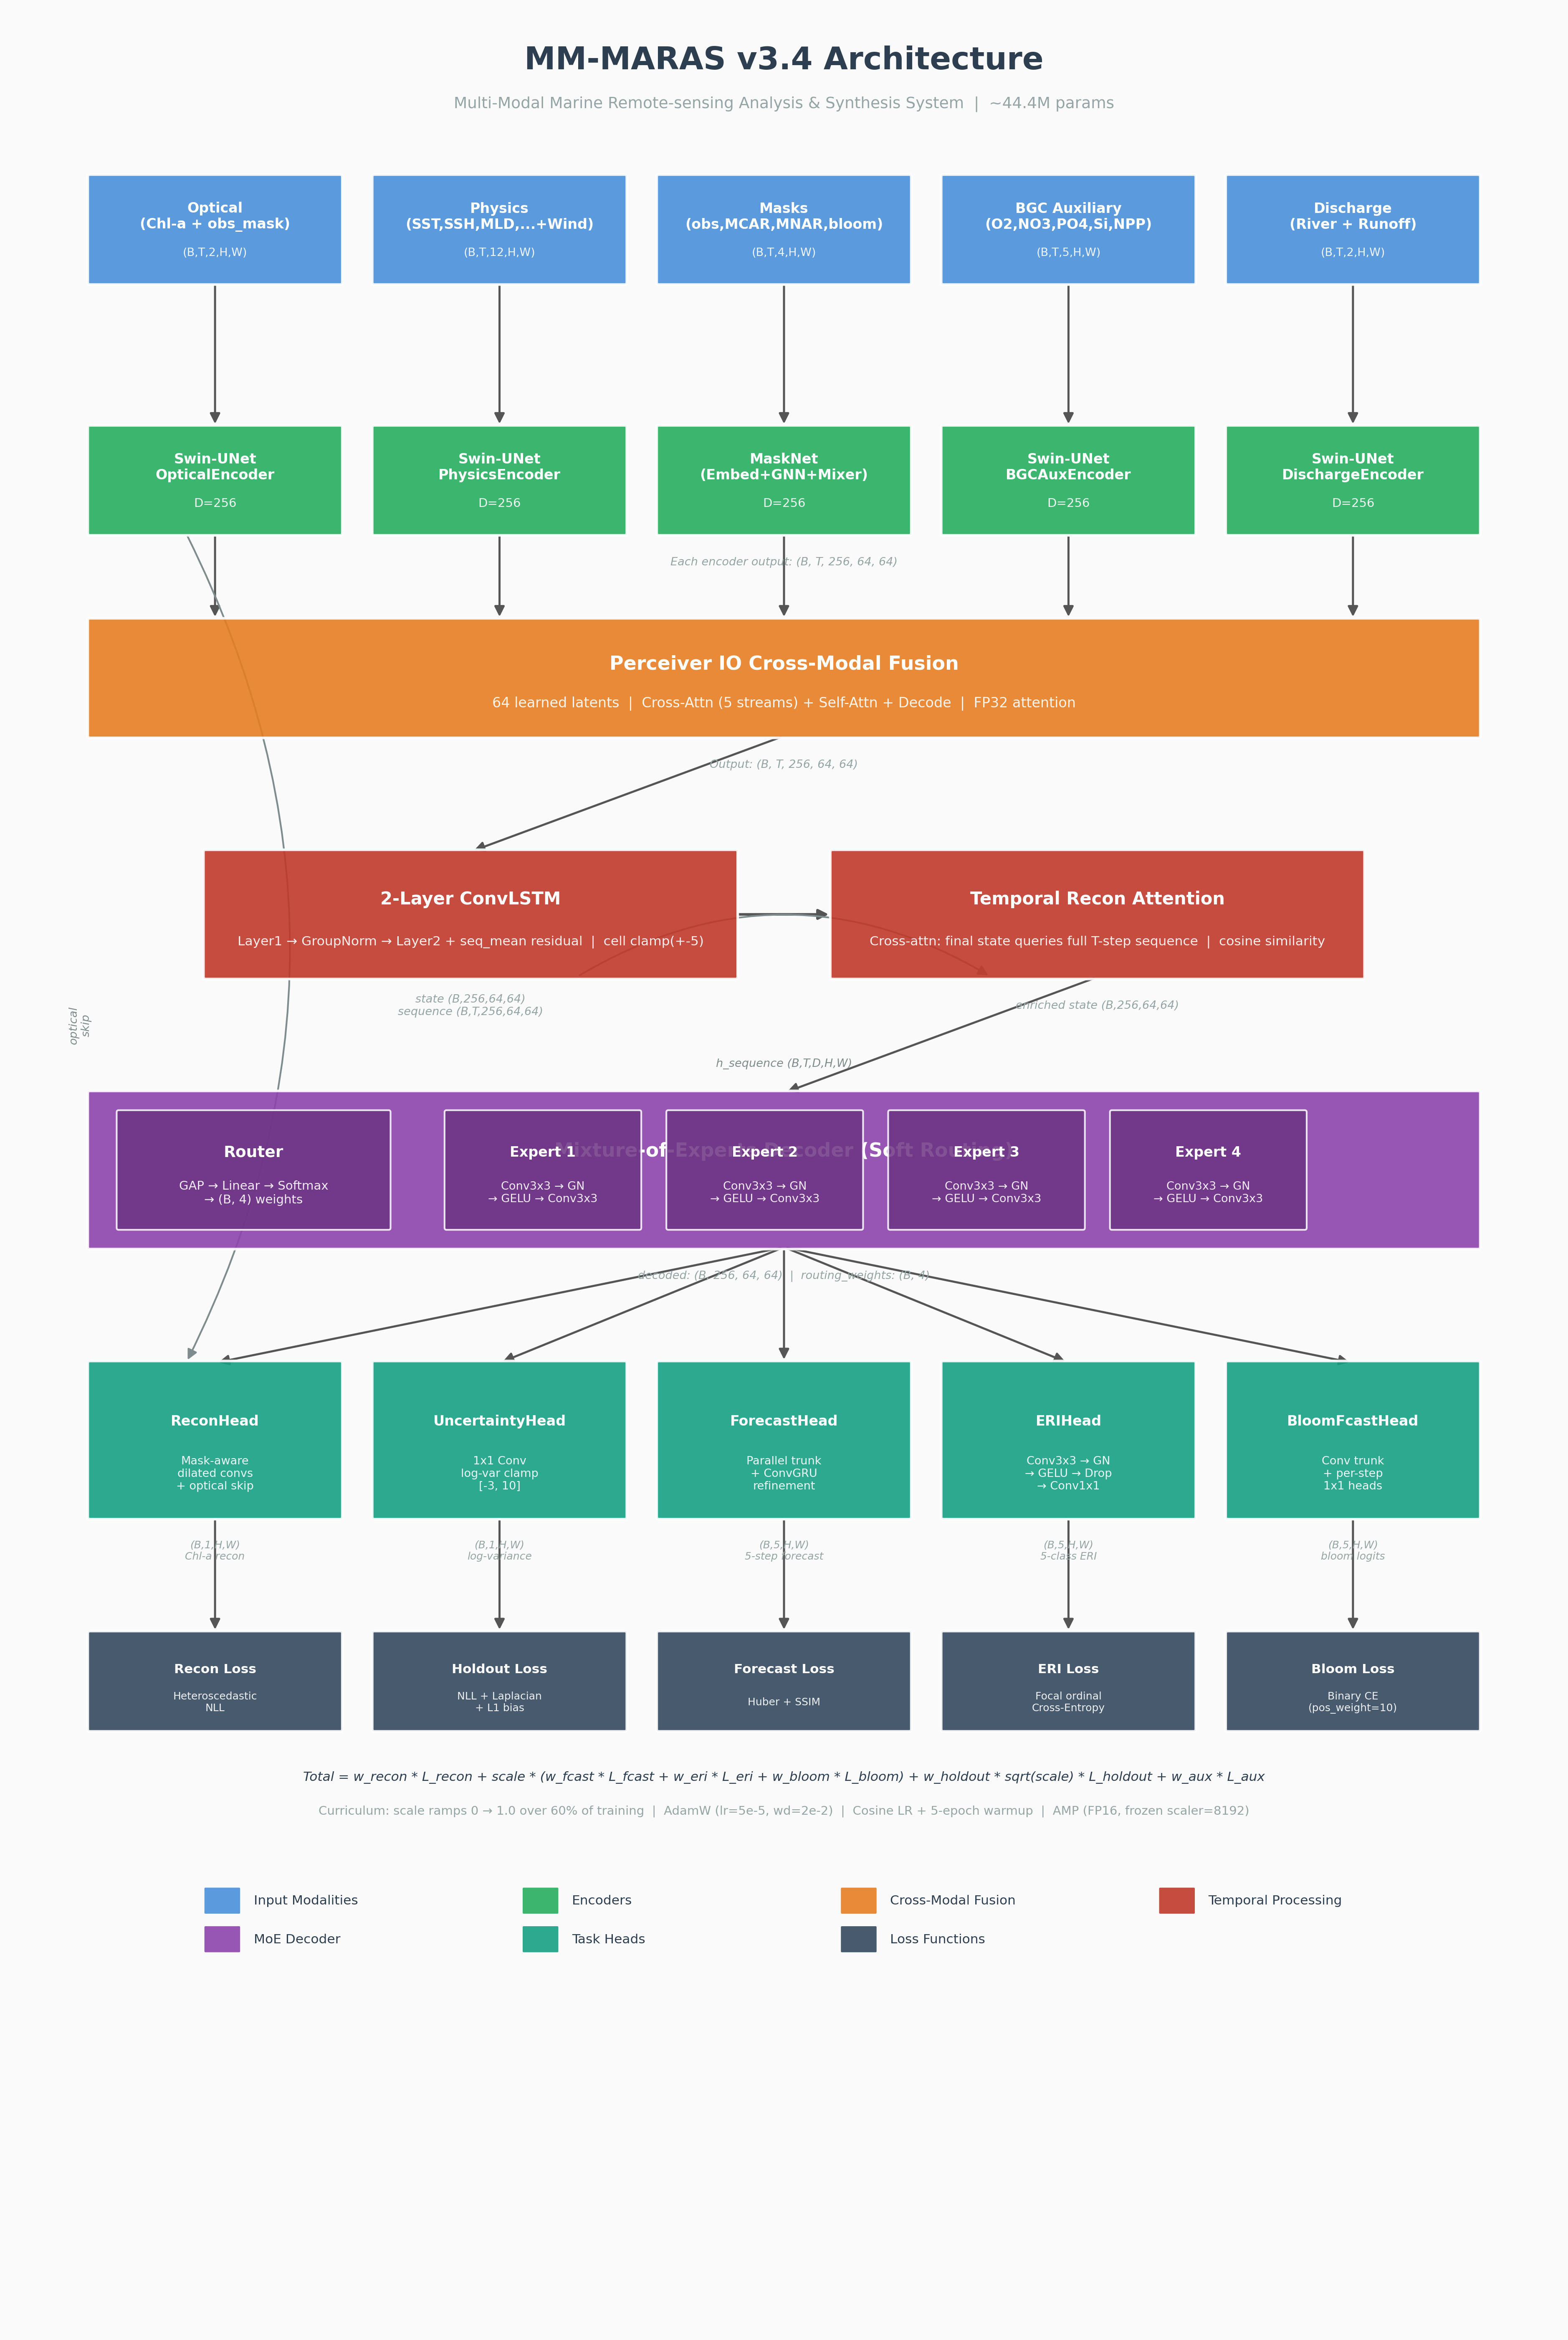
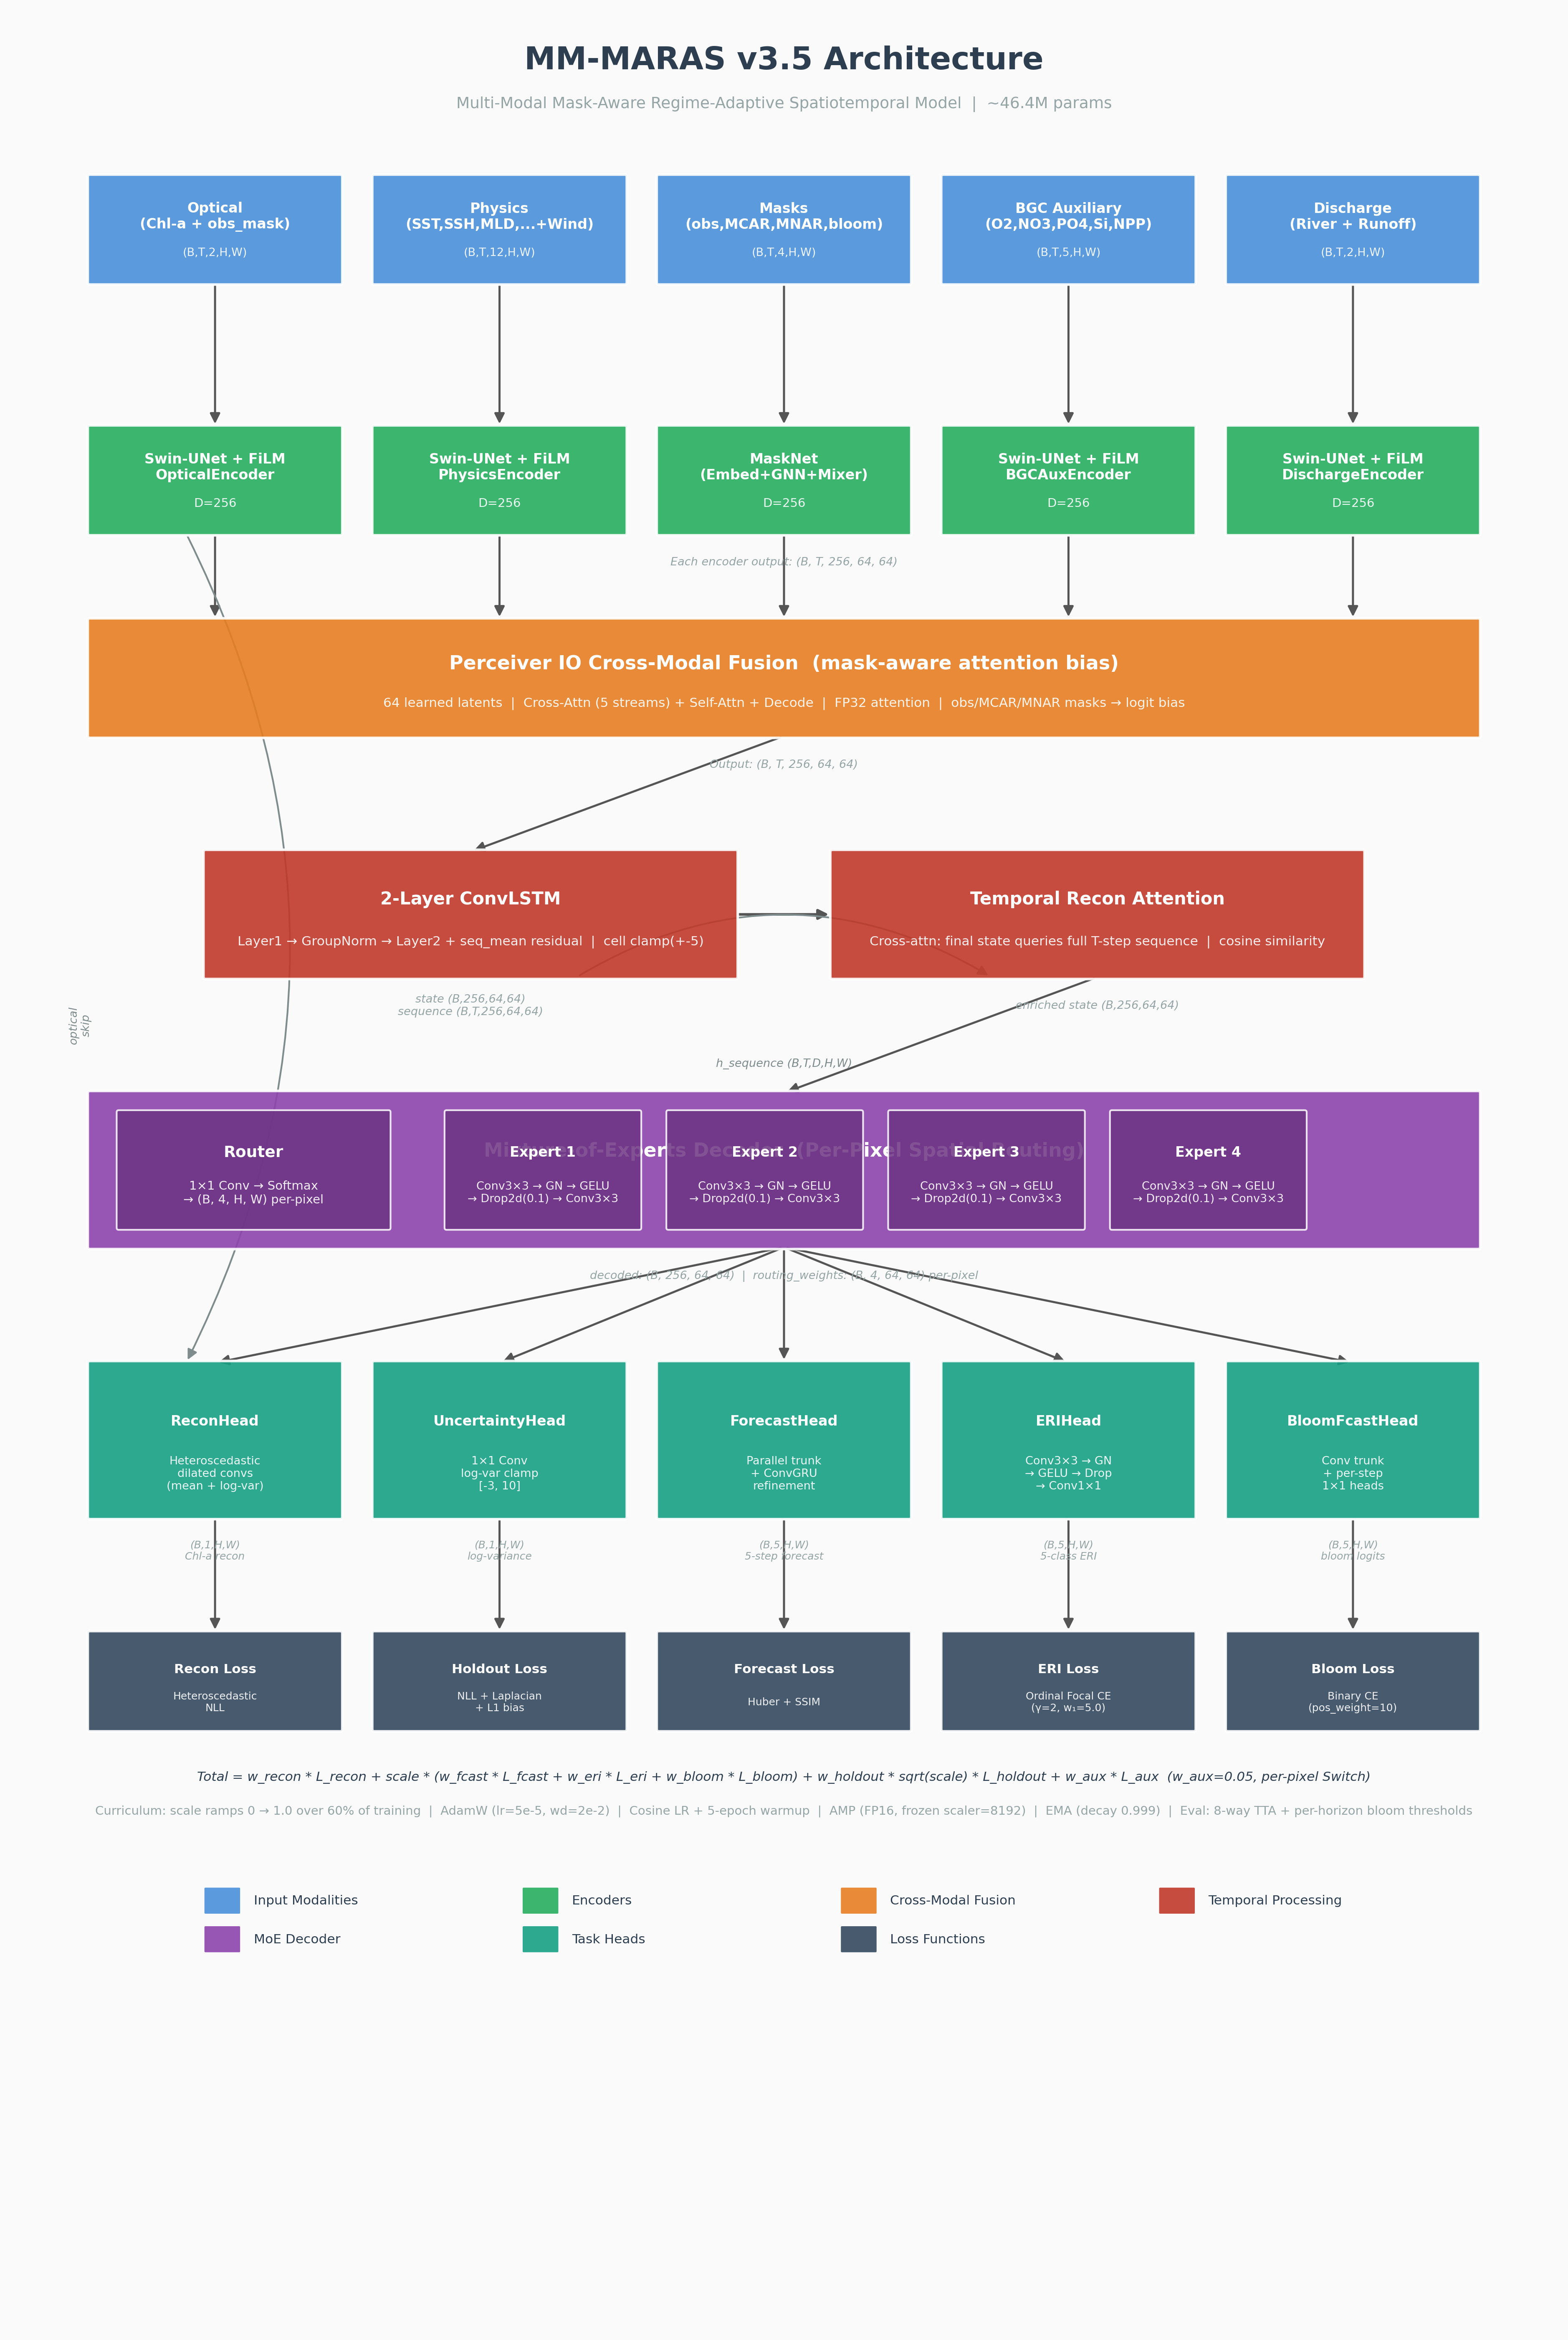
docs: update README and architecture diagram for v3.5
Refreshes docs against v3.5 test-set evaluation (TTA + per-horizon
bloom thresholds + gap-bias correction on best_ema.pt at epoch 47).

- Headline metrics: Valid RMSE 0.137→0.082, Gap RMSE 0.834→0.402,
  Forecast +1 RMSE 0.196→0.103, Bloom Macro F1 0.749→0.824,
  ERI Macro F1 0.521→0.926, CRPS 0.073→0.060
- Version history table extended to include v3.5 column and
  new rows (Valid SSIM, Gap RMSE, Forecast +5 RMSE, Params)
- Architectural evolution bullets [G]-[L] added: FiLM, mask-aware
  attention, heteroscedastic recon, ordinal focal CE, per-pixel MoE
  routing, EMA/TTA/MC-dropout/per-horizon thresholds
- Training section: 60 epochs, --ema-decay 0.999, --w-aux 0.05,
  best_ema.pt canonical checkpoint
- Calibration section: documents --bloom-thresholds, --tta,
  --mc-dropout flags and updated metrics.json schema
- Architecture diagram regenerated: v3.5 title, 46.4M params,
  FiLM in encoders, mask-aware attention bias in fusion,
  per-pixel spatial router (B,4,H,W), heteroscedastic ReconHead

diff --git a/scripts/architecture_diagram.py b/scripts/architecture_diagram.py
@@ -1,5 +1,5 @@
 """
-architecture_diagram.py — Generate MM-MARAS v3.4 architecture diagram
+architecture_diagram.py — Generate MM-MARAS v3.5 architecture diagram
 
 Usage:
     python scripts/architecture_diagram.py
@@ -83,13 +83,13 @@ def create_diagram(save_path: str = "figures/architecture.png"):
 
     # ── Title ────────────────────────────────────────────────────────
     ax.text(
-        8, 23.5, "MM-MARAS v3.4 Architecture",
+        8, 23.5, "MM-MARAS v3.5 Architecture",
         ha="center", va="center", fontsize=18, fontweight="bold",
         color=C_TEXT,
     )
     ax.text(
         8, 23.05,
-        "Multi-Modal Marine Remote-sensing Analysis & Synthesis System  |  ~44.4M params",
+        "Multi-Modal Mask-Aware Regime-Adaptive Spatiotemporal Model  |  ~46.4M params",
         ha="center", va="center", fontsize=9, color=C_SHAPE,
     )
 
@@ -123,11 +123,11 @@ def create_diagram(save_path: str = "figures/architecture.png"):
     enc_h = 1.1
 
     encoders = [
-        ("Swin-UNet\nOpticalEncoder", "D=256"),
-        ("Swin-UNet\nPhysicsEncoder", "D=256"),
+        ("Swin-UNet + FiLM\nOpticalEncoder", "D=256"),
+        ("Swin-UNet + FiLM\nPhysicsEncoder", "D=256"),
         ("MaskNet\n(Embed+GNN+Mixer)", "D=256"),
-        ("Swin-UNet\nBGCAuxEncoder", "D=256"),
-        ("Swin-UNet\nDischargeEncoder", "D=256"),
+        ("Swin-UNet + FiLM\nBGCAuxEncoder", "D=256"),
+        ("Swin-UNet + FiLM\nDischargeEncoder", "D=256"),
     ]
 
     enc_centers = []
@@ -150,9 +150,9 @@ def create_diagram(save_path: str = "figures/architecture.png"):
     fus_x = start_x
 
     _box(ax, fus_x, fus_y, fus_w, fus_h,
-         "Perceiver IO Cross-Modal Fusion",
-         "64 learned latents  |  Cross-Attn (5 streams) + Self-Attn + Decode  |  FP32 attention",
-         C_FUSION, fontsize=11, sublabel_size=8)
+         "Perceiver IO Cross-Modal Fusion  (mask-aware attention bias)",
+         "64 learned latents  |  Cross-Attn (5 streams) + Self-Attn + Decode  |  FP32 attention  |  obs/MCAR/MNAR masks → logit bias",
+         C_FUSION, fontsize=11, sublabel_size=7.5)
 
     fus_cx = fus_x + fus_w / 2
 
@@ -204,7 +204,7 @@ def create_diagram(save_path: str = "figures/architecture.png"):
     moe_x = start_x
 
     _box(ax, moe_x, moe_y, moe_w, moe_h,
-         "Mixture-of-Experts Decoder (Soft Routing)",
+         "Mixture-of-Experts Decoder  (Per-Pixel Spatial Routing)",
          "",
          C_DECODER, fontsize=11, sublabel_size=8)
 
@@ -224,7 +224,7 @@ def create_diagram(save_path: str = "figures/architecture.png"):
             "Router", ha="center", va="center", fontsize=9,
             fontweight="bold", color="white", zorder=5)
     ax.text(router_x + router_w / 2, router_y + router_h * 0.30,
-            "GAP → Linear → Softmax\n→ (B, 4) weights", ha="center", va="center",
+            "1×1 Conv → Softmax\n→ (B, 4, H, W) per-pixel", ha="center", va="center",
             fontsize=7, color="white", alpha=0.9, zorder=5)
 
     # 4 Expert blocks
@@ -247,7 +247,7 @@ def create_diagram(save_path: str = "figures/architecture.png"):
                 ha="center", va="center", fontsize=8,
                 fontweight="bold", color="white", zorder=5)
         ax.text(ex + exp_w / 2, ey + eh * 0.30,
-                "Conv3x3 → GN\n→ GELU → Conv3x3",
+                "Conv3×3 → GN → GELU\n→ Drop2d(0.1) → Conv3×3",
                 ha="center", va="center", fontsize=6.5,
                 color="white", alpha=0.9, zorder=5)
 
@@ -255,7 +255,7 @@ def create_diagram(save_path: str = "figures/architecture.png"):
     _arrow(ax, attn_x + attn_w / 2, temp_y,
            moe_x + moe_w / 2, moe_y + moe_h)
 
-    _shape_label(ax, 8, 10.9, "decoded: (B, 256, 64, 64)  |  routing_weights: (B, 4)")
+    _shape_label(ax, 8, 10.9, "decoded: (B, 256, 64, 64)  |  routing_weights: (B, 4, 64, 64) per-pixel")
 
     # ==================================================================
     # ROW 6: Output Heads  (y = 8.2 .. 9.6)
@@ -264,11 +264,11 @@ def create_diagram(save_path: str = "figures/architecture.png"):
     head_h = 1.6
 
     heads = [
-        ("ReconHead", "Mask-aware\ndilated convs\n+ optical skip", "(B,1,H,W)\nChl-a recon"),
-        ("UncertaintyHead", "1x1 Conv\nlog-var clamp\n[-3, 10]", "(B,1,H,W)\nlog-variance"),
+        ("ReconHead", "Heteroscedastic\ndilated convs\n(mean + log-var)", "(B,1,H,W)\nChl-a recon"),
+        ("UncertaintyHead", "1×1 Conv\nlog-var clamp\n[-3, 10]", "(B,1,H,W)\nlog-variance"),
         ("ForecastHead", "Parallel trunk\n+ ConvGRU\nrefinement", "(B,5,H,W)\n5-step forecast"),
-        ("ERIHead", "Conv3x3 → GN\n→ GELU → Drop\n→ Conv1x1", "(B,5,H,W)\n5-class ERI"),
-        ("BloomFcastHead", "Conv trunk\n+ per-step\n1x1 heads", "(B,5,H,W)\nbloom logits"),
+        ("ERIHead", "Conv3×3 → GN\n→ GELU → Drop\n→ Conv1×1", "(B,5,H,W)\n5-class ERI"),
+        ("BloomFcastHead", "Conv trunk\n+ per-step\n1×1 heads", "(B,5,H,W)\nbloom logits"),
     ]
 
     head_centers = []
@@ -292,7 +292,7 @@ def create_diagram(save_path: str = "figures/architecture.png"):
         ("Recon Loss", "Heteroscedastic\nNLL"),
         ("Holdout Loss", "NLL + Laplacian\n+ L1 bias"),
         ("Forecast Loss", "Huber + SSIM"),
-        ("ERI Loss", "Focal ordinal\nCross-Entropy"),
+        ("ERI Loss", "Ordinal Focal CE\n(γ=2, w₁=5.0)"),
         ("Bloom Loss", "Binary CE\n(pos_weight=10)"),
     ]
 
@@ -306,7 +306,7 @@ def create_diagram(save_path: str = "figures/architecture.png"):
     ax.text(
         8, 5.7,
         "Total = w_recon * L_recon + scale * (w_fcast * L_fcast + w_eri * L_eri + w_bloom * L_bloom) "
-        "+ w_holdout * sqrt(scale) * L_holdout + w_aux * L_aux",
+        "+ w_holdout * sqrt(scale) * L_holdout + w_aux * L_aux  (w_aux=0.05, per-pixel Switch)",
         ha="center", va="center", fontsize=7.5, color=C_TEXT,
         fontstyle="italic", zorder=5,
     )
@@ -314,7 +314,7 @@ def create_diagram(save_path: str = "figures/architecture.png"):
         8, 5.35,
         "Curriculum: scale ramps 0 → 1.0 over 60% of training  |  "
         "AdamW (lr=5e-5, wd=2e-2)  |  Cosine LR + 5-epoch warmup  |  "
-        "AMP (FP16, frozen scaler=8192)",
+        "AMP (FP16, frozen scaler=8192)  |  EMA (decay 0.999)  |  Eval: 8-way TTA + per-horizon bloom thresholds",
         ha="center", va="center", fontsize=7, color=C_SHAPE, zorder=5,
     )
 

diff --git a/README.md b/README.md
@@ -4,77 +4,80 @@
 
 MM-MARAS is a deep learning system for Bay of Bengal chlorophyll-a (Chl-a) reconstruction, 5-step forecasting, pixel-level uncertainty estimation, algal bloom early warning, and ecosystem risk assessment. It fuses five heterogeneous input streams through a Perceiver IO cross-attention module, processes the temporal sequence with a two-layer ConvLSTM, and decodes through a soft-routing Mixture-of-Experts decoder.
 
-The project has two parts: a preprocessing pipeline that downloads, aligns, normalizes, and patches multi-source oceanographic data, and a PyTorch model (~44.4M parameters) that consumes those patches.
+The project has two parts: a preprocessing pipeline that downloads, aligns, normalizes, and patches multi-source oceanographic data, and a PyTorch model (~46.4M parameters) that consumes those patches.
 
-## Results (v3.4 — current)
+## Results (v3.5 — current)
 
-Trained on 1,264 patches from the Bay of Bengal (2021-2024), evaluated on 260 test patches (2024-2025). Training: 2x T4 GPUs with DDP + AMP, batch size 4 per GPU, 50 epochs at lr=5e-5 (best checkpoint at epoch 9, val loss -1.2939). Early stopping with patience 12. Peak VRAM: ~7.7 GB per T4 GPU. Bloom threshold calibrated at 0.85.
+Trained on 1,264 patches from the Bay of Bengal (2021-2024), evaluated on 260 test patches (2024-2025). Training: 2x T4 GPUs with DDP + AMP, batch size 4 per GPU, 60 epochs at lr=5e-5 (best EMA checkpoint at epoch 47, val loss -1.3790, 0 AMP scaler skips after warmup). EMA decay 0.999. Peak VRAM: ~8.1 GB per T4 GPU. Wall time: ~10.4 h. Evaluation uses 8-way TTA (4 rotations × H-flip), per-horizon bloom thresholds (0.90 across all 5 horizons), and gap-bias correction (+0.1989).
 
 ### Reconstruction
 
 | Subset | Pixels | RMSE | MAE | Bias | R² | SSIM |
 |---|---|---|---|---|---|---|
-| All ocean | 1,031,940 | 0.3727 | 0.1783 | -0.0564 | 0.219 | 0.409 |
-| Valid (observed) | 848,900 | 0.1373 | 0.0572 | +0.0387 | 0.912 | 0.418 |
-| Gap (missing) | 183,040 | 0.8342 | 0.7399 | -0.4974 | -- | 0.000 |
+| All ocean | 1,031,940 | 0.1847 | 0.0782 | -0.0130 | 0.808 | 0.847 |
+| Valid (observed) | 848,900 | 0.0815 | 0.0308 | +0.0136 | 0.969 | 0.832 |
+| Gap (missing) | 183,040 | 0.4020 | 0.2983 | -0.1361 | -- | 0.000 |
 
-CRPS: 0.0725.
+CRPS: 0.0603.
 
 ### Forecast
 
 | Horizon | RMSE | MAE | SSIM |
 |---|---|---|---|
-| +1 day | 0.1963 | 0.0896 | 0.710 |
-| +2 days | 0.2038 | 0.0940 | 0.687 |
-| +3 days | 0.2093 | 0.0938 | 0.637 |
-| +4 days | 0.2153 | 0.0963 | 0.622 |
-| +5 days | 0.2193 | 0.0979 | 0.617 |
+| +1 day | 0.1025 | 0.0382 | 0.940 |
+| +2 days | 0.1311 | 0.0483 | 0.877 |
+| +3 days | 0.1556 | 0.0576 | 0.831 |
+| +4 days | 0.1721 | 0.0649 | 0.791 |
+| +5 days | 0.1838 | 0.0709 | 0.758 |
 
 ### ERI classification
 
-Accuracy: 0.9978. Macro F1: 0.521. Ordinal MAE: 0.003. Per-class F1: class 0 = 0.999, class 1 = 0.312, class 2 = 0.000, class 3 = 0.394, class 4 = 0.902.
+Accuracy: 0.9994. Macro F1: 0.926. Ordinal MAE: 0.001. Per-class F1: class 0 = 1.000, class 1 = 0.634, class 2 = 1.000, class 3 = 0.998, class 4 = 0.999.
 
 ### Bloom lead-time prediction
 
 | Horizon | Precision | Recall | F1 |
 |---|---|---|---|
-| +1 day | 0.755 | 0.773 | 0.764 |
-| +2 days | 0.727 | 0.789 | 0.757 |
-| +3 days | 0.744 | 0.751 | 0.748 |
-| +4 days | 0.749 | 0.734 | 0.741 |
-| +5 days | 0.739 | 0.730 | 0.734 |
+| +1 day | 0.841 | 0.886 | 0.863 |
+| +2 days | 0.816 | 0.864 | 0.840 |
+| +3 days | 0.798 | 0.843 | 0.820 |
+| +4 days | 0.784 | 0.825 | 0.804 |
+| +5 days | 0.776 | 0.811 | 0.793 |
 
-Macro F1: 0.749. Bloom rate: ~1.18% of ocean pixels.
+Macro F1: 0.824. Bloom rate: ~1.18% of ocean pixels. Per-horizon thresholds calibrated at 0.90 (vs default 0.5 which gives Macro F1 0.741).
 
 ### Uncertainty calibration
 
-ECE: 0.0416. Variance-error correlation: 0.527.
+ECE: 0.0447. Variance-error correlation: 0.488.
 
 ### MoE routing
 
-Expert utilization: 0.9995. Routing entropy: 1.386 / 1.386 (near-maximum). Expert weights: 25.9%, 23.5%, 25.5%, 25.1%.
+Expert utilization: 1.0000. Routing entropy: 1.386 / 1.386 (maximum). Expert weights: 25.00%, 25.02%, 24.97%, 25.01%. Per-pixel spatial routing distributes load uniformly across the 4 experts.
 
 ### Ecosystem impact
 
-Mean: 0.241. P90: 0.597. P95: 0.760. High-impact fraction (score > 0.6): 9.89% of ocean pixels.
+Mean: 0.178. P90: 0.298. P95: 0.403. High-impact fraction (score > 0.6): 2.64% of ocean pixels.
 
 ### Version history
 
 <details>
-<summary>v2 → v3.4 metric progression</summary>
+<summary>v2 → v3.5 metric progression</summary>
 
-| Metric | v2 | v3.2 | v3.4 |
-|---|---|---|---|
-| Valid RMSE | 0.102 | **0.127** | 0.137 |
-| Valid R² | 0.952 | 0.925 | 0.912 |
-| Forecast +1 RMSE | 0.132 | 0.249 | **0.196** |
-| Forecast +1 SSIM | 0.889 | 0.488 | **0.710** |
-| Bloom Macro F1 | -- | 0.620 | **0.749** |
-| ERI Macro F1 | 0.687 | 0.335 | **0.521** |
-| CRPS | 0.023 | 0.079 | **0.073** |
-| MoE utilisation | 1.000 | -- | **0.9995** |
+| Metric | v2 | v3.2 | v3.4 | v3.5 |
+|---|---|---|---|---|
+| Valid RMSE | 0.102 | 0.127 | 0.137 | **0.082** |
+| Valid R² | 0.952 | 0.925 | 0.912 | **0.969** |
+| Valid SSIM | -- | -- | 0.418 | **0.832** |
+| Gap RMSE | -- | -- | 0.834 | **0.402** |
+| Forecast +1 RMSE | 0.132 | 0.249 | 0.196 | **0.103** |
+| Forecast +1 SSIM | 0.889 | 0.488 | 0.710 | **0.940** |
+| Forecast +5 RMSE | -- | -- | 0.219 | **0.184** |
+| Bloom Macro F1 | -- | 0.620 | 0.749 | **0.824** |
+| ERI Macro F1 | 0.687 | 0.335 | 0.521 | **0.926** |
+| CRPS | 0.023 | 0.079 | 0.073 | **0.060** |
+| Params | ~42M | ~43M | ~44.4M | **~46.4M** |
 
-v3.2 introduced FP16 stability fixes (FP32 attention, activation clamps, GradScaler frozen at 8192). v3.3 added dropout + anti-overfitting changes (too aggressive — bloom F1 collapsed to 0.000). v3.4 dialed back to the optimal balance: kept dropout, reduced weight decay and curriculum speed.
+v3.2 introduced FP16 stability fixes (FP32 attention, activation clamps, GradScaler frozen at 8192). v3.3 added dropout + anti-overfitting changes (too aggressive — bloom F1 collapsed to 0.000). v3.4 dialed back to the optimal balance. v3.5 added FiLM regime-adaptive normalization, mask-aware attention bias, heteroscedastic recon head, ordinal focal CE for ERI, per-pixel spatial MoE routing with Switch aux loss, EMA weight tracking, 8-way TTA, MC-dropout epistemic uncertainty, and per-horizon bloom thresholds.
 
 </details>
 
@@ -96,7 +99,7 @@ Additionally, `compute_ecosystem_impact()` derives a per-pixel 0-1 ecosystem imp
 
 ## Architecture
 
-![MM-MARAS v3.4 Architecture](figures/architecture.png)
+![MM-MARAS v3.5 Architecture](figures/architecture.png)
 
 ```
 optical (chl_obs + obs_mask)      --> OpticalEncoder   (Swin-UNet, 2ch)  --\                                          skip to ReconHead
@@ -106,15 +109,15 @@ bgc_aux                          --> BGCAuxEncoder     (Swin-UNet, 5ch)  --/   (
 discharge                        --> DischargeEncoder  (Swin-UNet, 2ch)  --/
 ```
 
-**Encoders.** All four spatial encoders reuse the same Swin-UNet backbone (patch embed, 3-stage encoder, bottleneck, 3-stage decoder with skip connections) with independent weights. Gradient checkpointing wraps each encoder's forward pass to trade compute for ~40% activation memory savings. Stage dimensions: 64, 128, 256; window sizes: 8, 8, 4. The physics encoder concatenates ocean state (6ch), wind/atmosphere (4ch), and static context (2ch, broadcast over time) into 12 channels. MaskNet classifies pixels into five missingness types via learned embeddings, propagates context through two rounds of masked grid-graph convolution, and mixes across time with depthwise temporal convolution.
+**Encoders.** All four spatial encoders reuse the same Swin-UNet backbone (patch embed, 3-stage encoder, bottleneck, 3-stage decoder with skip connections) with independent weights. Gradient checkpointing wraps each encoder's forward pass to trade compute for ~40% activation memory savings. Stage dimensions: 64, 128, 256; window sizes: 8, 8, 4. The physics encoder concatenates ocean state (6ch), wind/atmosphere (4ch), and static context (2ch, broadcast over time) into 12 channels. FiLM regime-adaptive normalization (v3.5) conditions the encoder stem on wind/discharge/temporal physics covariates, so the model can specialize on seasonal regimes without splitting experts. MaskNet classifies pixels into five missingness types via learned embeddings, propagates context through two rounds of masked grid-graph convolution, and mixes across time with depthwise temporal convolution.
 
-**Fusion.** Perceiver IO with 64 latent queries cross-attending to spatially pooled tokens from all five streams (1280 KV tokens). Cross-attention uses FP32 for numerical stability under AMP. Self-attention refinement, then decode back to full resolution via position-aware spatial queries with residual blend. Activation clamping (±50) after each residual addition prevents overflow.
+**Fusion.** Perceiver IO with 64 latent queries cross-attending to spatially pooled tokens from all five streams (1280 KV tokens). Cross-attention uses FP32 for numerical stability under AMP and mask-aware attention bias (v3.5) pipes observation/MCAR/MNAR masks into attention logits as additive bias, preventing cloud-masked pixels from corrupting spatial attention. Self-attention refinement, then decode back to full resolution via position-aware spatial queries with residual blend. Activation clamping (±50) after each residual addition prevents overflow.
 
 **Temporal.** Two stacked ConvLSTM layers. Layer 1 returns the full hidden sequence (B, T, D, H, W); layer 2 processes it with GroupNorm-normalized global-context bias to produce the final state (B, D, H, W). Cell states clamped to ±5.0 to prevent FP16 overflow. The final state is enriched via TemporalReconAttention: 4-head cross-attention from the last-timestep query to the full layer-1 sequence, using cosine similarity with learnable temperature, L2-normalized Q/K, and obs_mask-weighted spatial pooling. Gap pixels at the last timestep attend to previously observed timesteps to recover context lost during temporal encoding.
 
-**Decoder.** Four expert ConvNets (Conv3×3 → GroupNorm → GELU → Dropout2d(0.1) → Conv3×3) soft-blended per sample via global routing (average pool, MLP, softmax). Load-balancing auxiliary loss at weight 0.01.
+**Decoder.** Four expert ConvNets (Conv3×3 → GroupNorm → GELU → Dropout2d(0.1) → Conv3×3) soft-blended **per pixel** (v3.5) via spatial routing (1×1 conv → softmax over 4 experts, applied at every spatial location). Switch Transformer load-balancing auxiliary loss at weight 0.05. Per-pixel routing replaces the v3.4 per-sample global routing, letting different regions of a single patch attend to different experts.
 
-**Heads.** All heads use Dropout2d(0.2) for regularization. Reconstruction: mask-conditioned spatial head — fuses decoded features, optical encoder skip connection, and obs_mask (D×2+1 channels), then 4 dilated convolutions (dilation 1, 2, 4, 8; 25×25 effective receptive field), then 1×1 projection. Forecast: two-stage — (1) parallel prediction via shared 2-layer trunk + per-step projections, then (2) autoregressive ConvGRU refinement unrolled over 5 steps (D//4 channels, corrections clamped to [-1, 1]). Uncertainty: 1×1 conv, output clamped to [-3, 10]. ERI: predicts from decoded features only (no label leakage); Conv2d(D → D//2 → 5) with GroupNorm + Dropout2d. Bloom forecast: shared trunk + per-step binary outputs. Total: ~44.4M parameters.
+**Heads.** All heads use Dropout2d(0.2) for regularization. Reconstruction: mask-conditioned spatial head — fuses decoded features, optical encoder skip connection, and obs_mask (D×2+1 channels), then 4 dilated convolutions (dilation 1, 2, 4, 8; 25×25 effective receptive field), then 1×1 projection to **mean + log-variance** (heteroscedastic, v3.5) trained with proper NLL recon loss. Forecast: two-stage — (1) parallel prediction via shared 2-layer trunk + per-step projections, then (2) autoregressive ConvGRU refinement unrolled over 5 steps (D//4 channels, corrections clamped to [-1, 1]). Uncertainty: 1×1 conv, output clamped to [-3, 10]. ERI: predicts from decoded features only (no label leakage); Conv2d(D → D//2 → 5) with GroupNorm + Dropout2d, trained with ordinal focal CE (v3.5) for the 0.03%–99.85% class skew. Bloom forecast: shared trunk + per-step binary outputs. Total: ~46.4M parameters.
 
 **Architectural evolution.** Key changes from v2:
 - [A] ReconHead: dilated convolutions conditioned on `obs_mask` with optical encoder skip connection (was 1×1 conv)
@@ -123,6 +126,12 @@ discharge                        --> DischargeEncoder  (Swin-UNet, 2ch)  --/
 - [D] ERI head predicts from learned features only (v3.1 removed bloom_count input that caused label leakage)
 - [E] FP16 stability: FP32 attention matmul, activation clamping, frozen GradScaler at 8192 (v3.2)
 - [F] Regularization: Dropout2d(0.2) in all heads, Dropout2d(0.1) in MoE experts (v3.3/v3.4)
+- [G] FiLM regime-adaptive normalization in encoder stem (v3.5)
+- [H] Mask-aware attention bias in Perceiver fusion (v3.5)
+- [I] Heteroscedastic recon head with predicted variance, trained with NLL (v3.5)
+- [J] Ordinal focal CE for ERI classification (v3.5)
+- [K] Per-pixel spatial MoE routing with Switch aux loss (v3.5)
+- [L] EMA weight tracking (decay 0.999), 8-way TTA, MC-dropout epistemic uncertainty, per-horizon bloom thresholds (v3.5)
 
 ## Repository layout
 
@@ -165,7 +174,7 @@ sea-you-again/
 │   ├── eval.py               Test-set evaluation, bloom forecast metrics, ecosystem impact
 │   └── architecture_diagram.py  Generate model architecture diagram
 └── figures/
-    └── architecture.png      MM-MARAS v3.4 architecture diagram
+    └── architecture.png      MM-MARAS v3.5 architecture diagram
 ```
 
 ---
@@ -245,9 +254,9 @@ Six loss terms with curriculum scheduling (secondary losses ramped from 0 → 1.
 | Reconstruction | 1.0 | Heteroscedastic NLL on observed ocean pixels (log_var floor -3) |
 | Holdout recon | 0.8 | NLL + Laplacian gradient matching + L1 bias on held-out pixels |
 | Forecast | 0.5 | Masked Huber (delta=0.5) + SSIM (weight 0.2) over forecast window |
-| ERI | 0.3 | Focal ordinal cross-entropy (gamma=2.0, class 1 weight 8.0) |
+| ERI | 0.3 | Ordinal focal cross-entropy (gamma=2.0, class 1 weight 5.0) |
 | Bloom forecast | 0.3 | Binary CE with pos_weight=10 per forecast step |
-| MoE auxiliary | 0.01 | Load-balancing (Switch Transformer) |
+| MoE auxiliary | 0.05 | Load-balancing (Switch Transformer, per-pixel) |
 
 ### Data augmentation
 
@@ -255,41 +264,49 @@ Random flips (horizontal p=0.5, vertical p=0.5) and 90° rotations (p=0.5) appli
 
 ### Training
 
-**v3.4 (current):**
+**v3.5 (current):**
 
 ```bash
-torchrun --nproc_per_node=2 scripts/Train.py \
+torchrun --nproc_per_node=2 --standalone scripts/Train.py \
     --patch-dir data-preprocessing-pipeline/data/patches \
-    --batch-size 4 --epochs 50 --warmup-epochs 5 \
-    --bloom-oversample 3
+    --ckpt-dir checkpoints \
+    --batch-size 4 --epochs 60 --warmup-epochs 5 \
+    --lr 5e-5 --weight-decay 2e-2 \
+    --ema-decay 0.999 --w-aux 0.05 --bloom-oversample 3
 ```
 
-Single-phase training: lr=5e-5, weight_decay=2e-2, cosine LR with 5-epoch linear warmup. Early stopping with patience 12. GradScaler frozen at init_scale=8192 (growth_interval=100,000 exceeds total steps). Best checkpoint typically at epoch 9-15. Peak VRAM: ~7.7 GB per T4 GPU with AMP and gradient checkpointing. ~500 seconds per epoch on 2×T4.
+Single-phase training: lr=5e-5, weight_decay=2e-2, cosine LR with 5-epoch linear warmup. EMA of model weights (decay 0.999) tracked in parallel; `best_ema.pt` is the canonical evaluation checkpoint. GradScaler frozen at init_scale=8192 (growth_interval=100,000 exceeds total steps). Best EMA checkpoint typically at epoch 40-50 (val plateaus ~epoch 40 — 45 epochs is enough if you want to save wall time). Peak VRAM: ~8.1 GB per T4 GPU with AMP and gradient checkpointing. ~540 seconds per epoch on 2×T4; ~10.4 h total for 60 epochs.
 
-### Post-hoc calibration
+### Post-hoc calibration and evaluation
 
-Run calibration first (on val set), then evaluation (on test set):
+Run calibration first (on val set), then evaluation (on test set) with the calibrated values:
 
 ```bash
-# Step 1: Calibrate — finds gap bias and optimal bloom threshold
+# Step 1: Calibrate — finds gap bias and per-horizon bloom thresholds
 python model/calibrate.py \
-    --ckpt checkpoints/best.pt \
+    --ckpt checkpoints/best_ema.pt \
     --patch-dir data-preprocessing-pipeline/data/patches \
     --out-dir calibration_results
 
-# Step 2: Evaluate — pass calibrated gap bias from step 1
+# Step 2: Evaluate — pass calibrated values from step 1, enable TTA
 python scripts/eval.py \
-    --ckpt checkpoints/best.pt \
+    --ckpt checkpoints/best_ema.pt \
     --patch-dir data-preprocessing-pipeline/data/patches \
     --out-dir eval_results \
-    --gap-bias <VALUE_FROM_CALIBRATE>
+    --gap-bias <VALUE_FROM_CALIBRATE> \
+    --bloom-thresholds <t1> <t2> <t3> <t4> <t5> \
+    --tta
 ```
 
 **Gap bias correction**: The model systematically over-predicts on gap (cloud-masked) pixels. `calibrate.py` measures the mean bias on the validation set; `eval.py --gap-bias` subtracts it from gap predictions at inference. The bias varies per model version — always re-calibrate after retraining.
 
-**Bloom threshold**: The default sigmoid threshold (0.5) is replaced with a calibrated threshold of 0.85 (hardcoded in eval.py), found by sweeping thresholds to maximize F1 on the validation set.
+**Per-horizon bloom thresholds** (v3.5): `calibrate.py` sweeps both pooled and per-horizon thresholds (0.10–0.95 step 0.05) and returns the 5 values that maximize F1 per forecast step. The v3.5 run converged to 0.90 across all horizons, raising Macro F1 from 0.741 (default 0.5) to 0.824. Pass them to `eval.py` as `--bloom-thresholds t1 t2 t3 t4 t5`.
 
-Outputs: `metrics.json`, `confusion_matrix.csv`, `calibration.csv`, and `figures/` containing reconstruction panels, forecast panels, bloom probability + ecosystem impact maps, calibration diagram, and routing bar chart.
+**Test-time augmentation** (v3.5): `eval.py --tta` runs 8 augmentations (4 rotations × H-flip), inverts the spatial outputs, and averages in native space. ~8× eval latency but removes horizon-to-horizon SSIM wobble and improves all accuracy metrics.
+
+**MC-dropout epistemic uncertainty** (v3.5, optional): `eval.py --mc-dropout N` runs N stochastic forward passes with dropout layers enabled at eval time, reporting `recon_std` and `forecast_std` as epistemic uncertainty alongside the aleatoric variance head.
+
+Outputs: `metrics.json` (includes `tta`, `mc_dropout`, `bloom_thresholds`, `gap_bias`, `mc_dropout_epistemic` fields), `confusion_matrix.csv`, `calibration.csv`, and `figures/` containing reconstruction panels, forecast panels, bloom probability + ecosystem impact maps, calibration diagram, and routing bar chart.
 
 ### Smoke tests
 
@@ -349,7 +366,9 @@ A single inference pass produces: bloom probability timeline (5 maps, one per fu
 - The optical encoder supports optional SatMAE weight initialization via `load_satmae_patch_embed()`.
 - The contrastive pre-alignment loss in `fusion.py` is available for an optional pretraining phase.
 - All pipeline downloads are resumable. Normalization statistics are training-split-only.
-- Checkpoint compatibility: v2 ≠ v1 (new heads), v3 ≠ v2 (new ReconHead, ForecastHead, ERIHead, TemporalModuleV3), v3.2 ≠ v3.1 (seq_norm GroupNorm added). v3.3/v3.4 are weight-compatible with v3.2 (hyperparameter changes only).
+- Checkpoint compatibility: v2 ≠ v1 (new heads), v3 ≠ v2 (new ReconHead, ForecastHead, ERIHead, TemporalModuleV3), v3.2 ≠ v3.1 (seq_norm GroupNorm added). v3.3/v3.4 are weight-compatible with v3.2 (hyperparameter changes only). **v3.5 ≠ v3.4**: FiLM layers in encoder stem, mask-aware attention bias in fusion, heteroscedastic recon head (mean + log-var), per-pixel spatial MoE router, and EMA tracking are new architectural parameters.
+- `best_ema.pt` (EMA weights) is the canonical v3.5 evaluation checkpoint, not `best.pt`. EMA typically tracks val loss 0.01–0.05 better than the raw weights.
+- MoE routing uniformity at Utilisation=1.0000 with per-pixel routing is expected — each pixel picks its preferred expert, and the uniform batch average comes from even spatial distribution. To verify experts are actually specialized (not collapsed), inspect per-pixel routing variance, not batch-mean weights.
 - Gap SSIM ≈ 0 is a metric limitation, not a model failure: gap pixels are scattered (cloud-masked) with no spatial structure for SSIM to measure. Gap RMSE and MAE are the meaningful gap quality metrics.
 - `eval.py --gap-bias` accepts a calibrated gap bias value. Always re-run `calibrate.py` after retraining.
 - cuFFT/cuDNN/cuBLAS registration warnings during Kaggle DDP training are harmless.